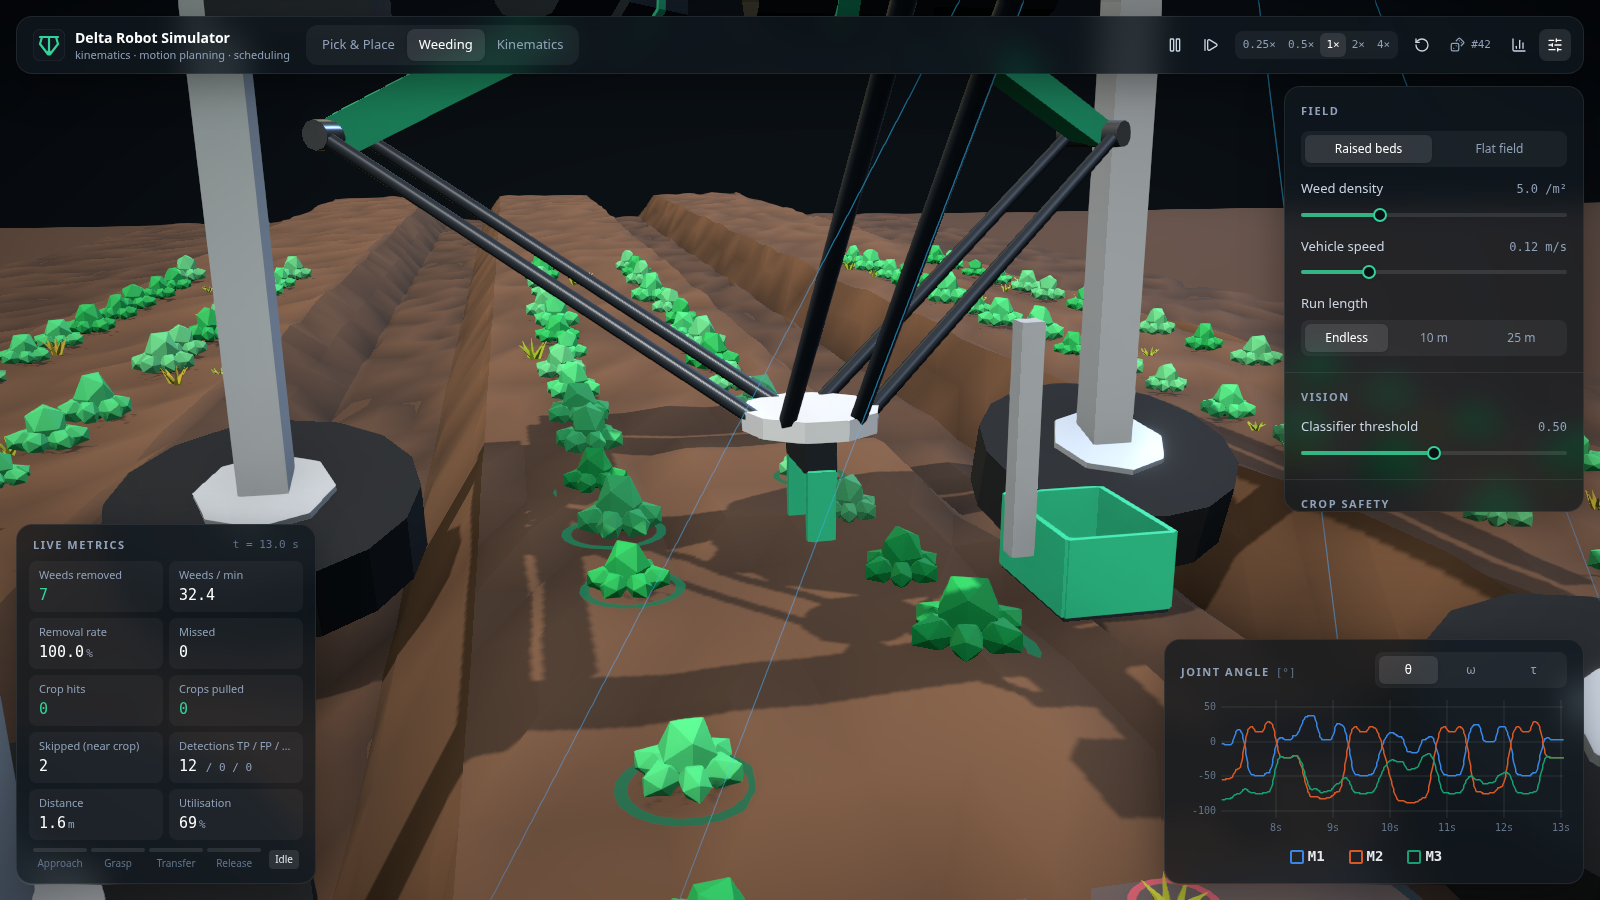
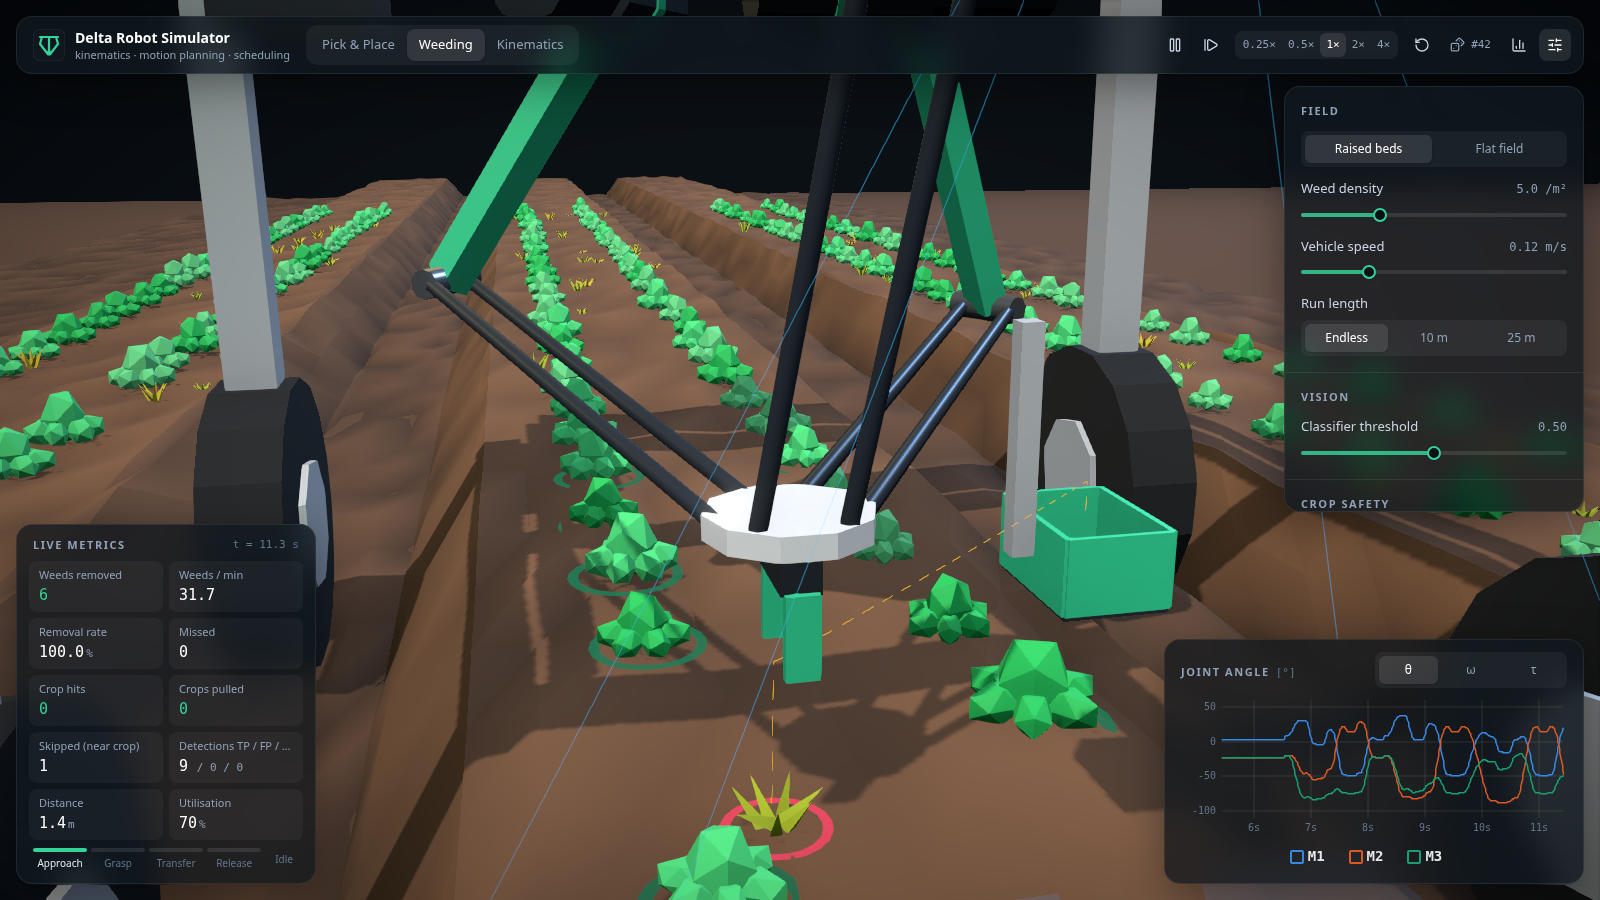
Fix wheel and roller orientation, recapture README media
The cylinders were rotated so their axis pointed up inside the Z-up scene, which made the
vehicle wheels tumble like scoops. A cylinder's default axis is already the lateral axle.

diff --git a/src/render/weeding/WeedingScene.tsx b/src/render/weeding/WeedingScene.tsx
@@ -336,10 +336,10 @@ function Vehicle({ scenario }: { scenario: WeedingScenario }) {
       <group ref={wheels}>
         {legs.map(([x, y], i) => (
           <group key={i} position={[x, y, wheelR]}>
-            <mesh material={tyreMat} rotation-x={Math.PI / 2} castShadow>
+            <mesh material={tyreMat} castShadow>
               <cylinderGeometry args={[wheelR, wheelR, 0.11, 16]} />
             </mesh>
-            <mesh material={frameMat} rotation-x={Math.PI / 2}>
+            <mesh material={frameMat}>
               <cylinderGeometry args={[wheelR * 0.45, wheelR * 0.45, 0.13, 8]} />
             </mesh>
           </group>

diff --git a/src/render/pickPlace/PickPlaceScene.tsx b/src/render/pickPlace/PickPlaceScene.tsx
@@ -187,7 +187,7 @@ function Conveyor({
         <boxGeometry args={[length, width, 0.09]} />
       </mesh>
       {[-length / 2, length / 2].map((x) => (
-        <mesh key={x} position={[x, 0, h - 0.04]} rotation-x={Math.PI / 2} material={frameMat}>
+        <mesh key={x} position={[x, 0, h - 0.04]} material={frameMat}>
           <cylinderGeometry args={[0.04, 0.04, width + 0.02, 16]} />
         </mesh>
       ))}
